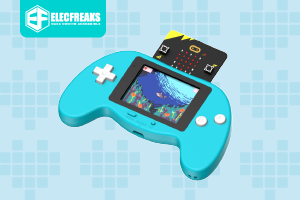
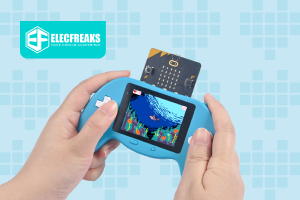
change elecfreaks board naming and card image

diff --git a/docs/arcade-devices.md b/docs/arcade-devices.md
@@ -21,9 +21,9 @@ These boards run MakeCode Arcade games. Choose a board to find out more about it
         "variant": "hw---stm32f401"
     },
     {
-        "name": "micro:bit Retro Shield",
+        "name": "micro:bit Arcade Shield",
         "description": "Use the micro:bit with an expansion board from Elecfreaks",
-        "imageUrl": "/static/hardware/retro-shield.jpg",
+        "imageUrl": "/static/hardware/arcade-shield.jpg",
         "url": "https://shop.elecfreaks.com/products/micro-bit-retro-programming-arcade",
         "variant": "hw---n3"
     },

diff --git a/docs/hardware.md b/docs/hardware.md
@@ -103,9 +103,9 @@ Shields are based on our guidelines, adhere to open source hardware reference de
 ```codecard
 [
     {
-        "name": "micro:bit Retro Shield",
+        "name": "micro:bit Arcade Shield",
         "description": "Use the micro:bit with an expansion board from Elecfreaks",
-        "imageUrl": "/static/hardware/retro-shield.jpg",
+        "imageUrl": "/static/hardware/arcade-shield.png",
         "url": "https://shop.elecfreaks.com/products/micro-bit-retro-programming-arcade"
     },
     {
